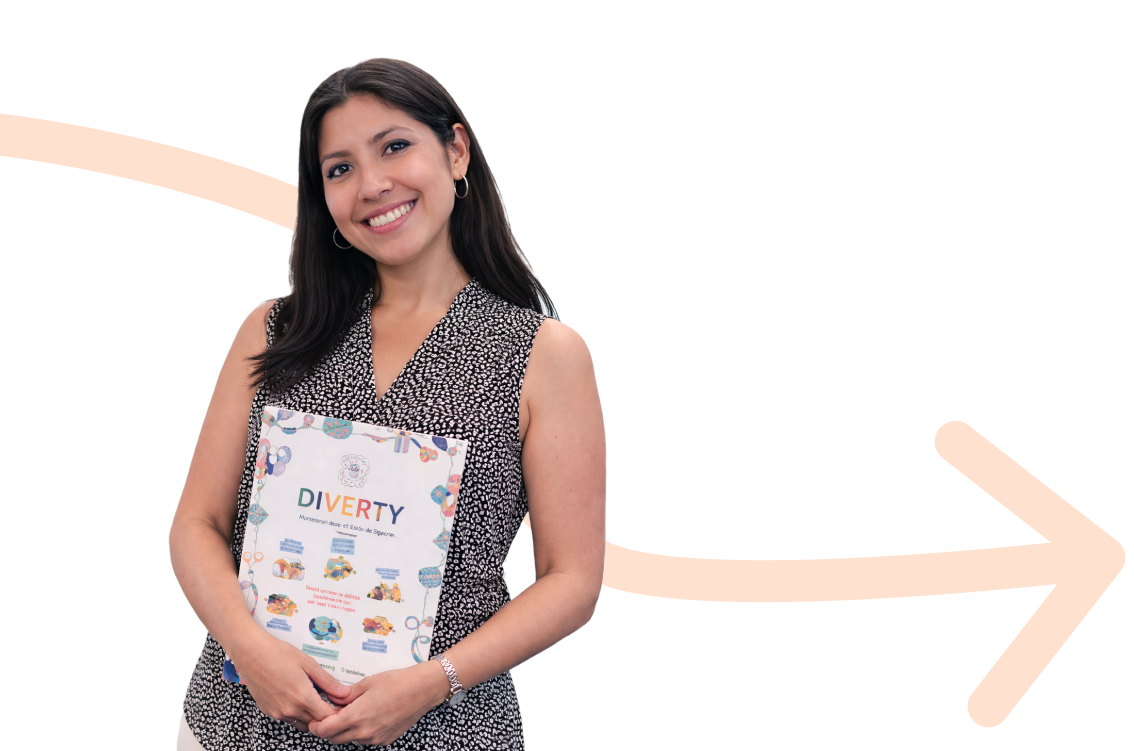
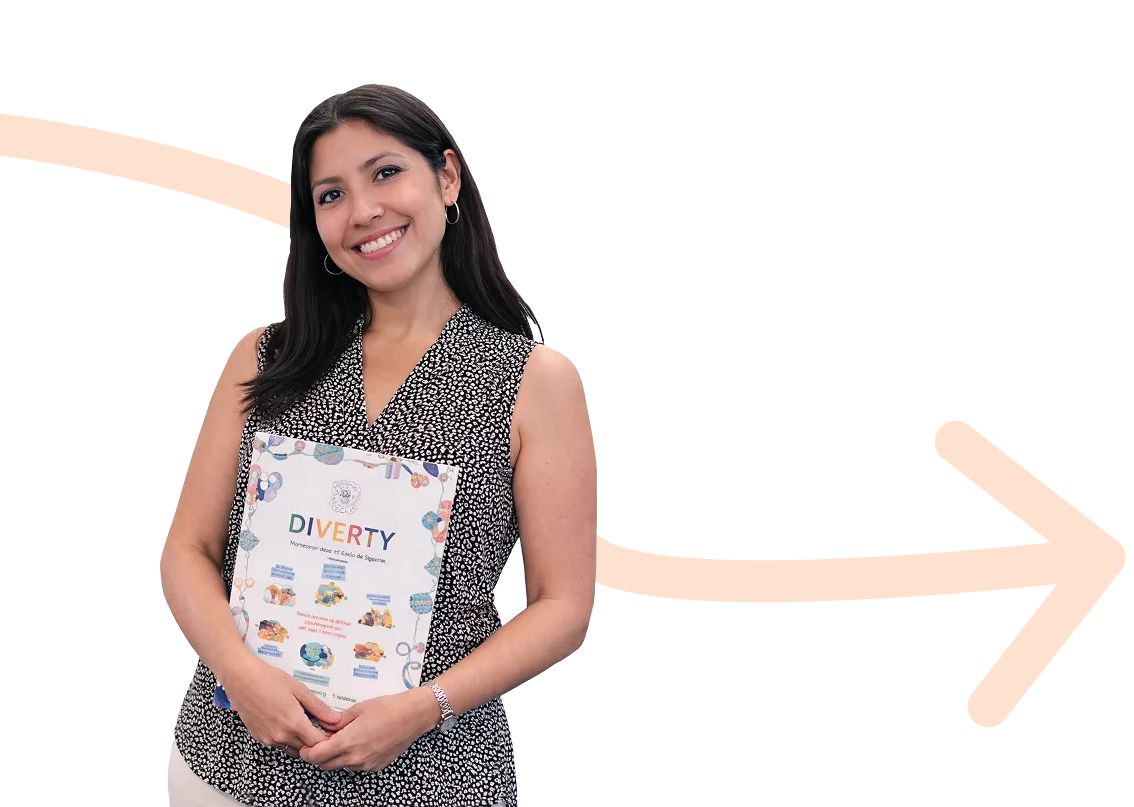
refactor: update Hero and HeroSection components for improved responsiveness and visual consistency, adjusting max-height and text styles, and replace image format for better performance

Changed region(s): [[0.0, 0.0613, 1.0, 1.0], [0.0, 0.1225, 0.0309, 0.1531]]

diff --git a/src/components/estrategia/Hero.tsx b/src/components/estrategia/Hero.tsx
@@ -20,7 +20,7 @@ export default function Hero() {
       className="relative overflow-hidden bg-primary pt-6 text-white"
       aria-labelledby="hero-title"
     >
-      <div className="relative z-10 mt-20 overflow-hidden sm:max-h-[calc(100vh+10rem)] lg:mt-0 4xl:container">
+      <div className="relative z-10 mt-20 overflow-hidden sm:max-h-[calc(100vh+50rem)] lg:mt-0 4xl:container">
         <motion.div
           className="grid grid-cols-1 gap-2 lg:grid-cols-3 lg:gap-8 lg:gap-x-12"
           initial={reduce ? false : "hidden"}
@@ -48,14 +48,14 @@ export default function Hero() {
             className="relative order-1 sm:mr-10 lg:absolute lg:right-[0rem] lg:top-[8rem] xl:right-[2rem] xl:top-[10rem] 2xl:right-[2rem] 2xl:top-[10rem] 3xl:right-[8rem] 3xl:top-[14rem]"
             variants={copyVariants}
           >
-            <div className="container sm:max-w-sm md:max-w-md lg:mx-0 lg:max-w-md lg:px-0 xl:max-w-xl 2xl:max-w-2xl">
+            <div className="container sm:max-w-sm md:max-w-md lg:mx-0 lg:max-w-lg lg:px-0 xl:max-w-xl 2xl:max-w-2xl">
               <h1
                 id="hero-title"
-                className="relative mb-5 text-3xl font-bold leading-[1.15] sm:text-4xl lg:text-4xl xl:text-5xl xl:text-[3.35rem]"
+                className="relative mb-5 text-[2rem] font-bold sm:text-4xl lg:text-[2.1rem] xl:text-[3rem] 2xl:text-[3.35rem] leading-relaxed xl:leading-[1]"
               >
                 {siteConfig.tagline}
               </h1>
-              <p className="relative text-base font-normal leading-relaxed text-white/95 sm:text-lg">
+              <p className="relative text-base font-normal leading-relaxed text-white/95 sm:text-lg lg:text-base xl:text-lg">
                 Únete a profesionales que ya aplican lo aprendido en Diverty: sesiones
                 en vivo, práctica guiada y certificación con respaldo.
               </p>

diff --git a/src/components/inicio/HeroSection.tsx b/src/components/inicio/HeroSection.tsx
@@ -23,7 +23,7 @@ export default function HeroSection() {
       style={{ backgroundColor: HERO_ORANGE }}
       aria-labelledby="hero-title"
     >
-      <div className="sm:max-h-[calc(100vh+10rem)] 4xl:container relative z-10 mt-20 overflow-hidden lg:mt-0">
+      <div className="sm:max-h-[calc(100vh+50rem)] 4xl:container relative z-10 mt-20 overflow-hidden lg:mt-0">
         <motion.div
           className="grid grid-cols-1 gap-2 lg:grid-cols-3 lg:gap-8 lg:gap-x-12"
           initial={reduce ? false : "hidden"}
@@ -38,7 +38,7 @@ export default function HeroSection() {
             <img
               src={familyHero.image.src}
               alt={familyHero.image.alt}
-              className="relative z-[1] h-full w-full translate-y-[5%] 2xl:translate-y-[2%] xl:-translate-x-[2%] object-contain drop-shadow-xl lg:mt-10"
+              className="relative z-[1] w-full translate-y-[5%] 2xl:translate-y-[2%] xl:-translate-x-[2%] object-contain drop-shadow-xl lg:mt-10"
               loading="eager"
               fetchPriority="high"
             />

diff --git a/src/data/nosotrosPage.ts b/src/data/nosotrosPage.ts
@@ -8,7 +8,7 @@
 import imgHero from "../assets/prototype-quienes-somos/nosotros_section_hero-1.png";
 import imgEsencia from "../assets/prototype-quienes-somos/nosotros_section_nuestra-escencia.png";
 import imgImpacto from "../assets/prototype-quienes-somos/nosotros_section_impacto-buscamos.png";
-import imgFundadora from "../assets/prototype-quienes-somos/nosotros_section_nuestra-fundadora.png";
+import imgFundadora from "../assets/prototype-quienes-somos/nosotros_section_nuestra-fundadora.webp";
 import imgStaffNataly from "../assets/prototype-quienes-somos/nosotros_section_staff-nataly.png";
 import imgStaffSandra from "../assets/prototype-quienes-somos/nosotros_section_staff-sandra.png";
 
